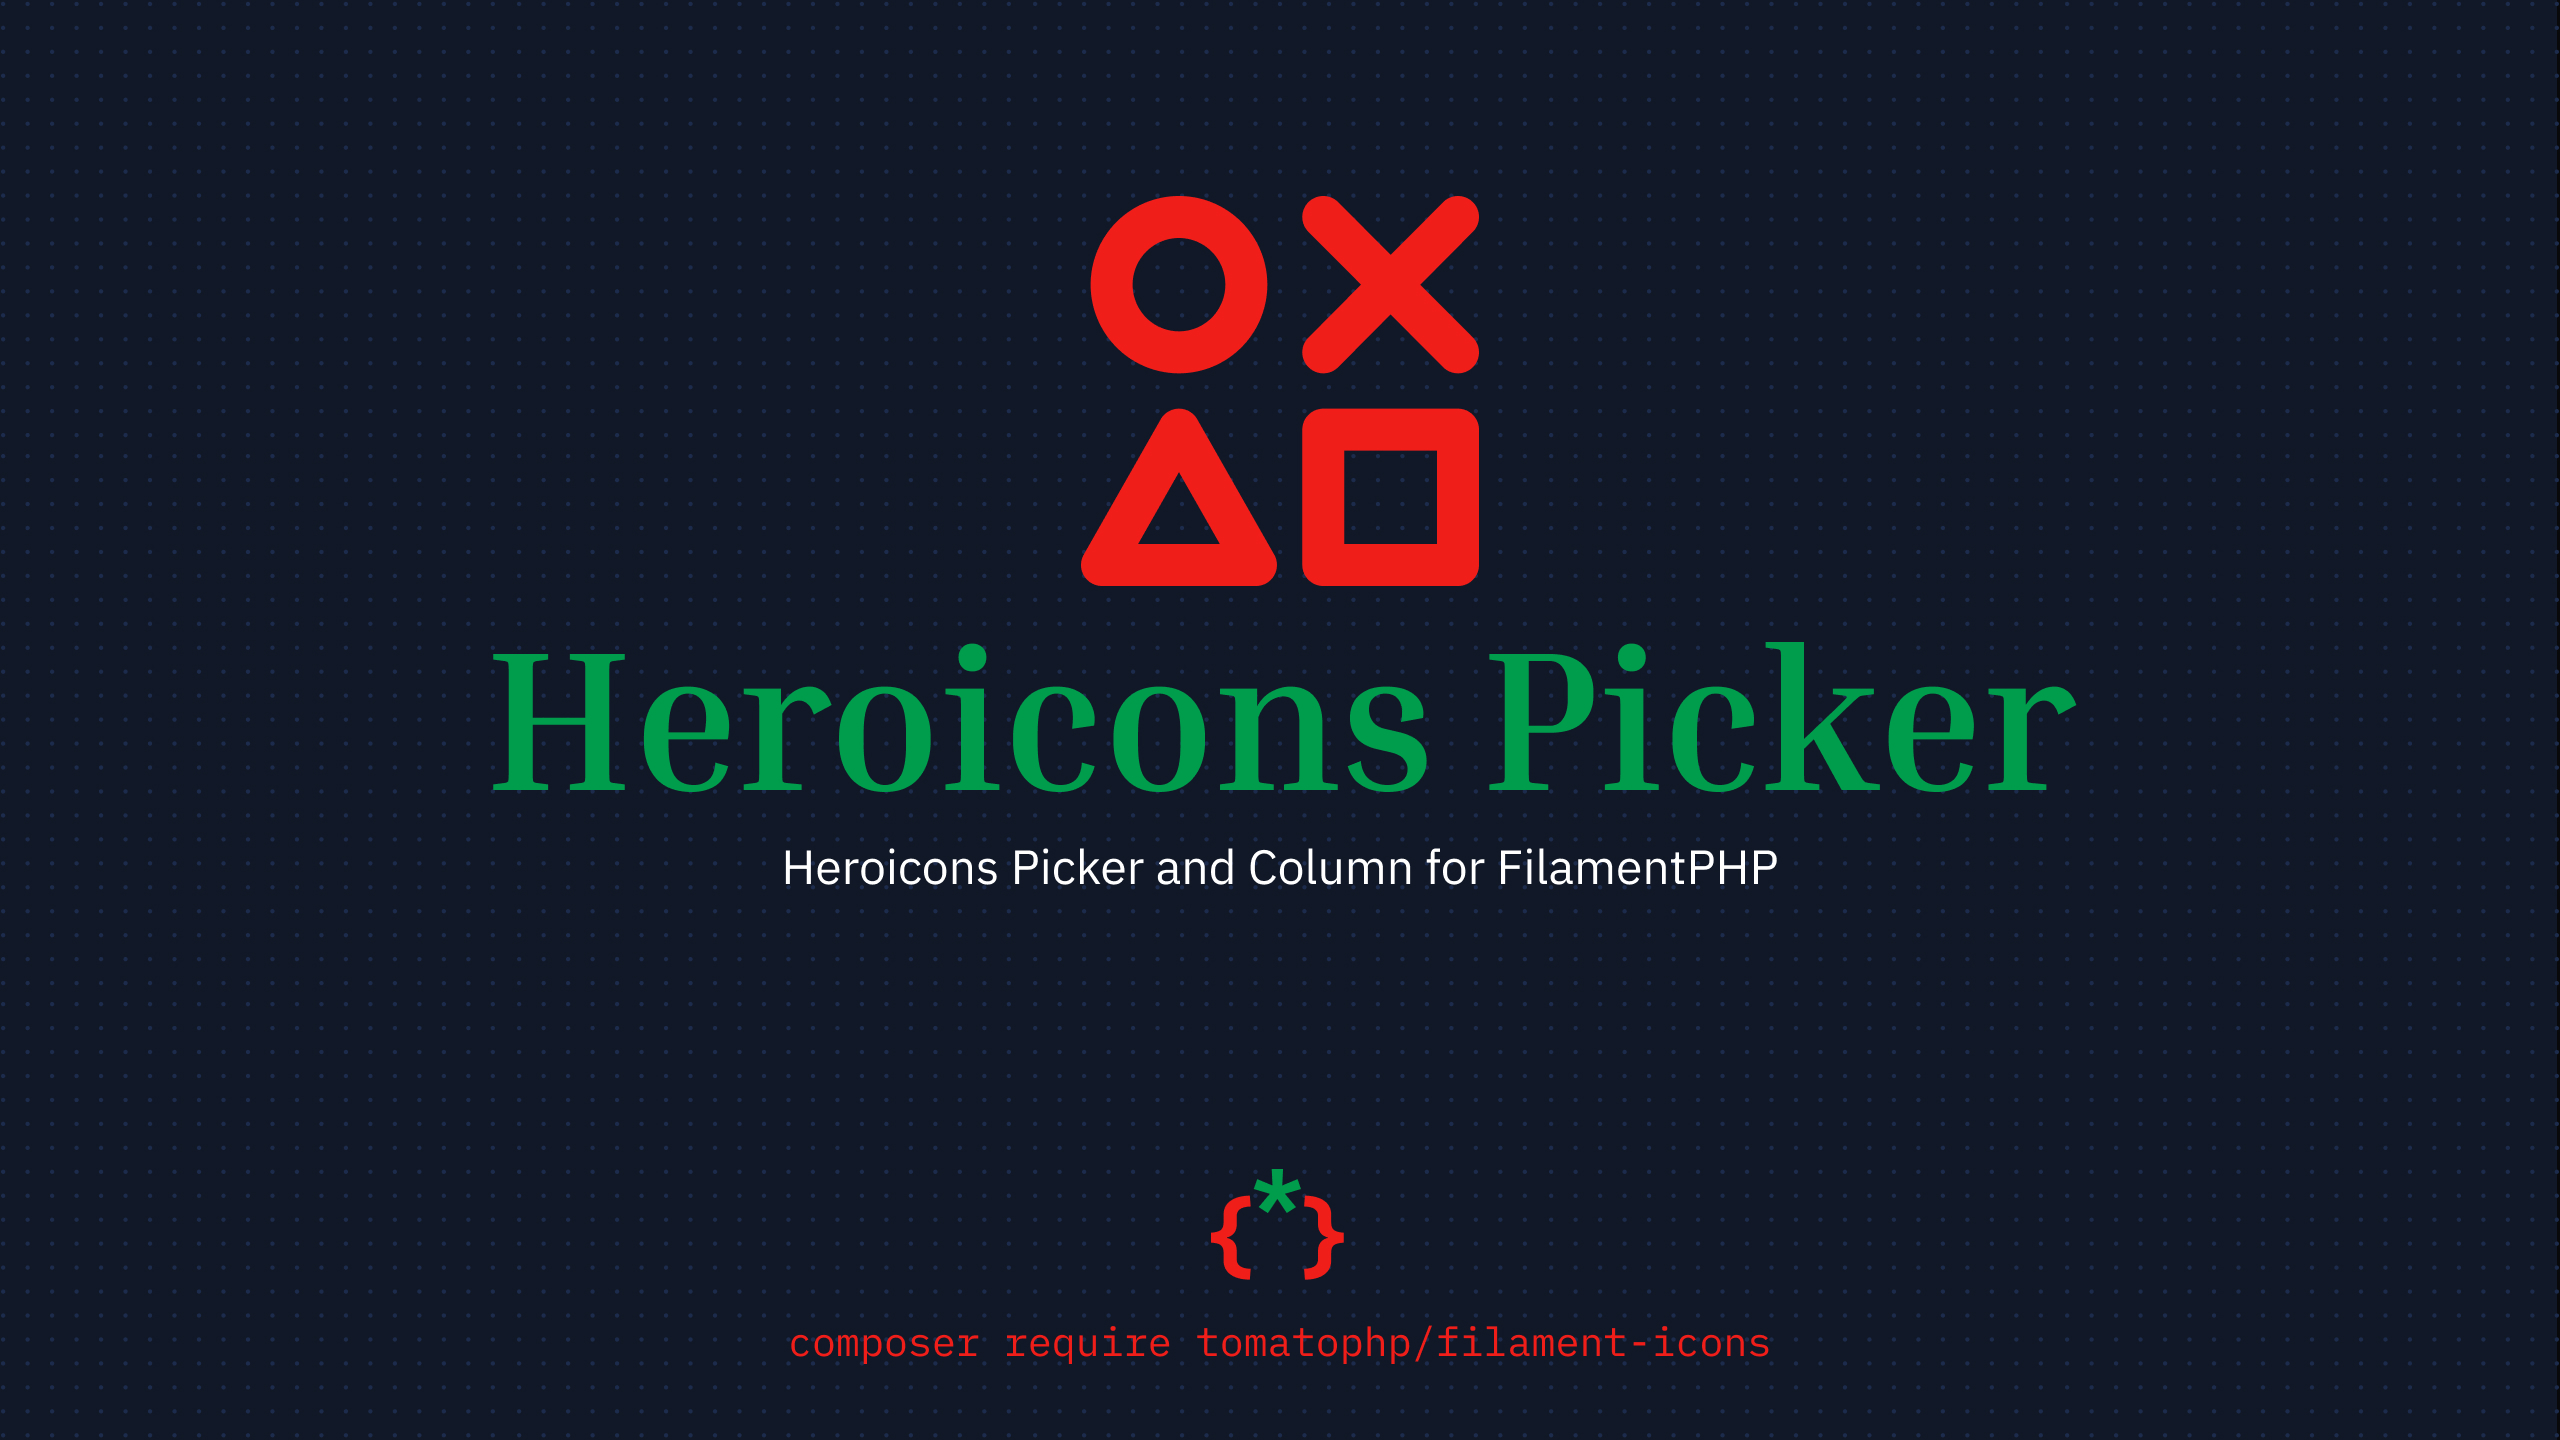
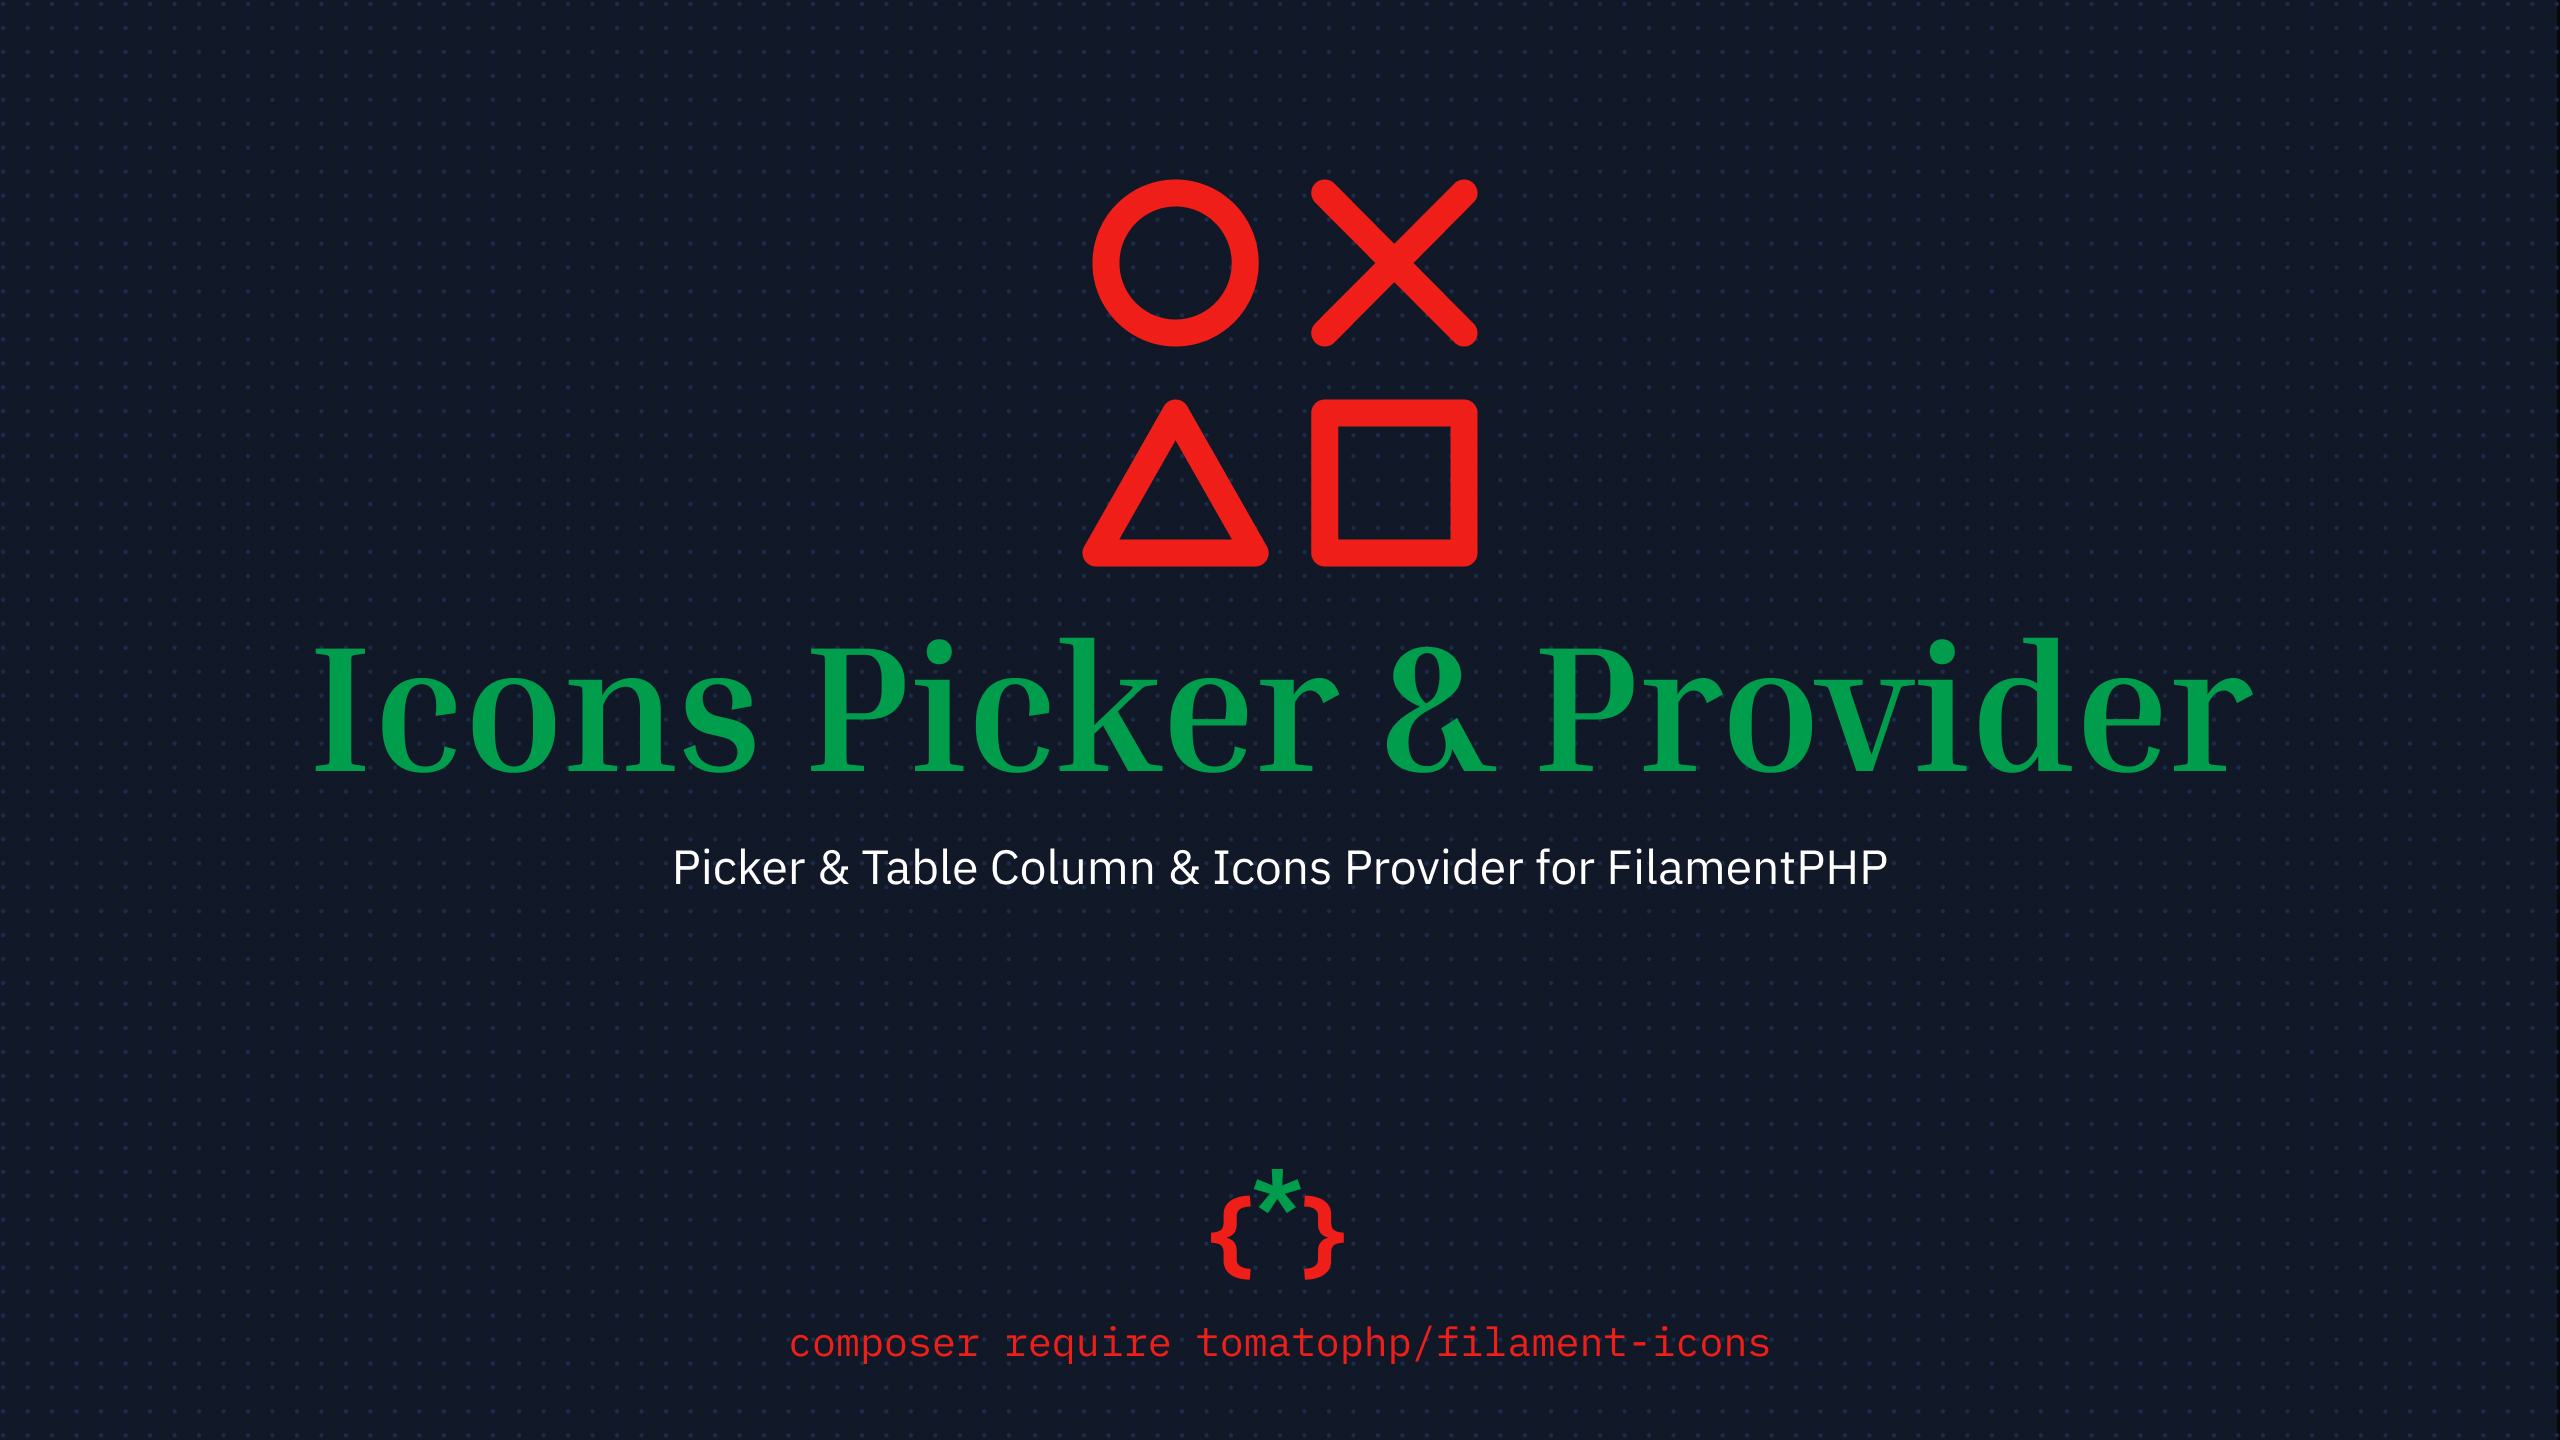
update readme

Changed region(s): [[0.125, 0.4375, 0.875, 0.5625], [0.4062, 0.125, 0.5938, 0.4062], [0.25, 0.5938, 0.75, 0.625]]

diff --git a/README.md b/README.md
@@ -1,13 +1,13 @@
 ![Screenshot](https://raw.githubusercontent.com/tomatophp/filament-icons/master/arts/3x1io-tomato-icons.jpg)
 
-# Filament Heroicon Picker
+# Filament Icons Picker & Provider
 
 [![Latest Stable Version](https://poser.pugx.org/tomatophp/filament-icons/version.svg)](https://packagist.org/packages/tomatophp/filament-icons)
 [![PHP Version Require](http://poser.pugx.org/tomatophp/filament-icons/require/php)](https://packagist.org/packages/tomatophp/filament-icons)
 [![License](https://poser.pugx.org/tomatophp/filament-icons/license.svg)](https://packagist.org/packages/tomatophp/filament-icons)
 [![Downloads](https://poser.pugx.org/tomatophp/filament-icons/d/total.svg)](https://packagist.org/packages/tomatophp/filament-icons)
 
-Heroicons Picker and Column for FilamentPHP
+Picker & Table Column & Icons Provider for FilamentPHP
 
 ## Screenshots
 

diff --git a/3x1io-tomato-icons.md b/3x1io-tomato-icons.md
@@ -1,9 +1,9 @@
 ---
-name: Heroicons Picker
+name: Icons Picker & Provider
 slug: 3x1io-tomato-icons
 author_slug: 3x1io
 categories: [developer-tool]
-description: Heroicons Picker and Column for FilamentPHP
+description: Picker & Table Column & Icons Provider for FilamentPHP
 discord_url: 
 docs_url: https://raw.githubusercontent.com/tomatophp/filament-icons/master/README.md
 github_repository: tomatophp/filament-icons
